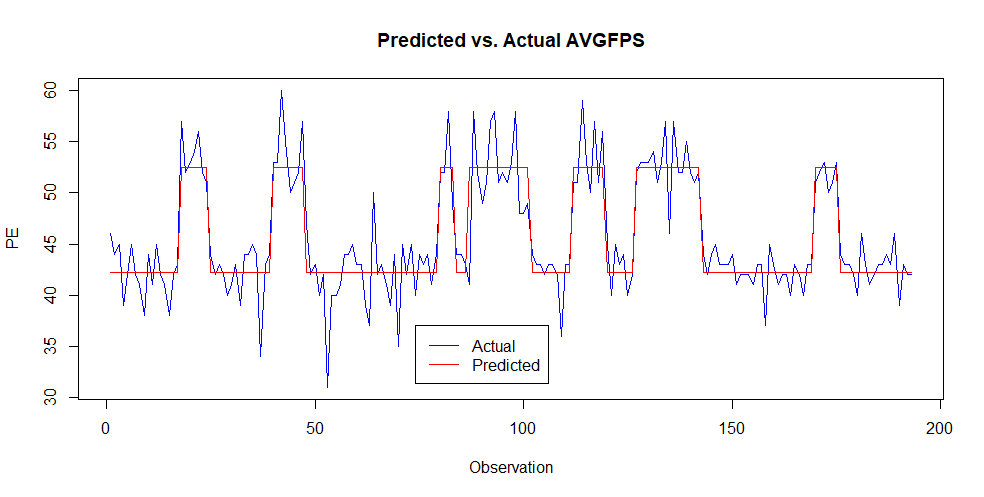
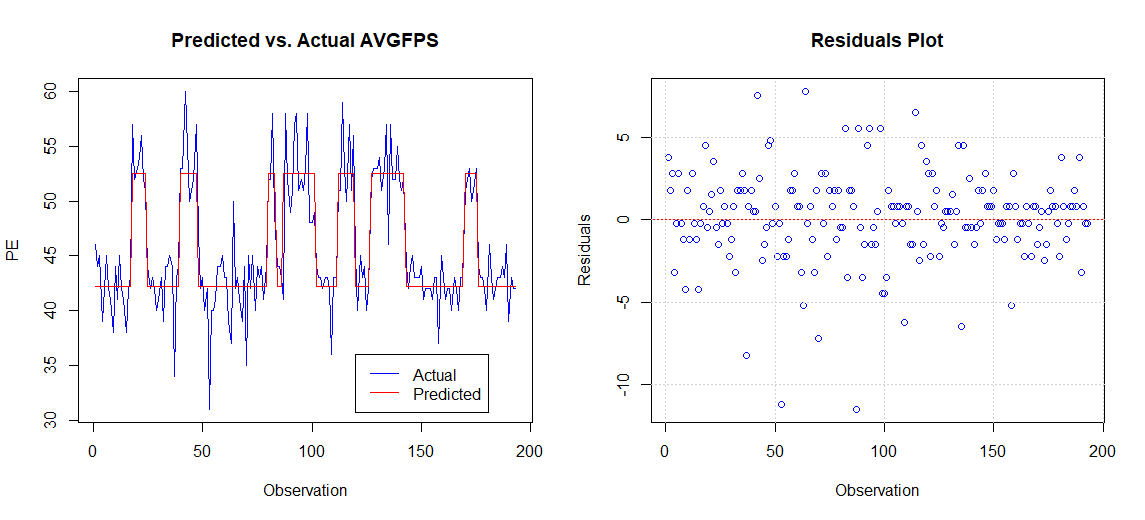
q1 donee

diff --git a/README.html b/README.html
@@ -524,9 +524,10 @@ truly reflect on the variability in all the rating variables
 <p>In order to address the research questions, I developed models
 tailored to each question. Provided below are the evaluation of these
 models along with the model descriptions.</p>
-<p><strong>Q1. Which of the technical variables
+<div id="q1.-which-of-the-technical-variables-aaagap-have-the-most-influence-on-avgfps" class="section level4">
+<h4><strong>Q1. Which of the technical variables
 (<code>AA</code>/<code>AG</code>/<code>AP</code>) have the most
-influence on <code>AVGFPS</code>?</strong></p>
+influence on <code>AVGFPS</code>?</strong></h4>
 <div class="float">
[1 lines of base64/hex data omitted]
 <div class="figcaption"><strong>Figure 1</strong> Predictive Model for
@@ -556,15 +557,53 @@ influence on <code>AVGFPS</code>?</strong></p>
 </tbody>
 </table>
 <p><strong>Table 1</strong> Model Assessment</p>
+<p>Before proceeding with utilizing the model to address the research
+question, I conducted a thorough assessment of its performance using
+three distinct methods, outlined below:</p>
+<p><em>Root Mean Squared Error</em> (RMSE): RMSE measures the average
+magnitude of the errors between predicted and actual values. In this
+case, the RMSE is <span class="math inline">\(2.769354\)</span>,
+indicating that, on average, the model’s predictions deviate from the
+actual values by approximately <span class="math inline">\(2.77\)</span>
+units.</p>
+<p><em>R-squared</em> (Coefficient of Determination): R-squared
+quantifies the proportion of the variance in the target variable that is
+explained by the model. A value of <span class="math inline">\(0.758044\)</span> indicates that approximately
+<span class="math inline">\(75.8%\)</span> of the variance in the target
+variable is explained by the model, suggesting a reasonably good
+fit.</p>
+<p><em>Cross-validated RMSE</em>: Cross-validation is a technique used
+to assess the model’s performance on unseen data by splitting the
+dataset into multiple subsets. The reported cross-validated RMSE values
+are <span class="math inline">\(1.777068\)</span>, <span class="math inline">\(1.763340\)</span>, and <span class="math inline">\(2.257344\)</span>, which represent the RMSE
+calculated on different subsets of the data. This provides insights into
+the model’s stability and generalization performance across different
+data partitions.</p>
+<p>In short, the model demonstrates moderate predictive performance,
+underscored by the R-squared value. Furthermore, the consistency
+observed in the cross-validated RMSE values across different data
+subsets enhances confidence in the model’s generalization
+capability.</p>
 <div class="float">
[1 lines of base64/hex data omitted]
-<div class="figcaption"><strong>Figure 2</strong> Predicted vs Actual
-Plot</div>
[1 lines of base64/hex data omitted]
+<div class="figcaption"><strong>Figure 2</strong> Further Model
+Assessment</div>
 </div>
-<div class="float">
[1 lines of base64/hex data omitted]
-<div class="figcaption"><strong>Figure 3</strong> Residual Plot</div>
-</div>
+<p>To further validate the robustness of the model, a visual examination
+of the Predicted vs Actual AVGFPS Plot was conducted. This plot shows
+the model’s predicted average frames per second (AVGFPS) values against
+the actual AVGFPS values from the dataset. Its capacity to accurately
+predict AVGFPS values, as demonstrated by the close alignment between
+predicted and actual values, instills confidence in its reliability and
+robustness.</p>
+<p>The Residual Plot analysis reinforces the notion that the model is a
+good fit for the dataset. The random distribution of residuals, with the
+majority clustering around y = 0, underscores the model’s accuracy in
+predicting AVGFPS values. While a few outliers exist, their limited
+presence does not detract significantly from the model’s overall
+performance. As such, the Residual Plot provides further evidence of the
+model’s suitability for addressing the research question with
+confidence.</p>
 <table>
 <thead>
 <tr class="header">
@@ -593,28 +632,30 @@ Plot</div>
 </table>
 <p><strong>Table 2</strong> Outcome</p>
 <p><strong>Conclusion:</strong></p>
-<p>Graphics <code>AG</code>: <span class="math inline">\(0.6931757927\)</span></p>
-<p>This VarImp value indicates that Graphics has the highest importance
-among the three feature variables in predicting FPS. A VarImp value
-close to 1 suggests that changes in the Graphics feature have a
-significant impact on FPS predictions. Therefore, Graphics is considered
-the most influential variable in Model 1 for predicting FPS.</p>
-<p>Physics <code>AP</code>: <span class="math inline">\(0.0012707157\)</span></p>
-<p>The VarImp value for Physics is much lower compared to Graphics,
-indicating that Physics has much less influence on FPS predictions. A
-VarImp value close to 0 suggests that changes in the Physics feature
-have minimal impact on FPS predictions in comparison to Graphics.</p>
-<p>Audio <code>AA</code>: <span class="math inline">\(0.0005060404\)</span></p>
-<p>Similarly, the VarImp value for Audio is also quite low compared to
-Graphics. This suggests that Audio has less influence on FPS predictions
-compared to Graphics and even less than Physics.</p>
+<p>Graphics <code>AG</code>: <span class="math inline">\(0.6931757927\)</span>. This VarImp value indicates
+that Graphics has the highest importance among the three feature
+variables in predicting FPS. A VarImp value close to 1 suggests that
+changes in the Graphics feature have a significant impact on FPS
+predictions. Therefore, Graphics is considered the most influential
+variable in Model 1 for predicting FPS.</p>
+<p>Physics <code>AP</code>: <span class="math inline">\(0.0012707157\)</span>. The VarImp value for
+Physics is much lower compared to Graphics, indicating that Physics has
+much less influence on FPS predictions. A VarImp value close to 0
+suggests that changes in the Physics feature have minimal impact on FPS
+predictions in comparison to Graphics.</p>
+<p>Audio <code>AA</code>: <span class="math inline">\(0.0005060404\)</span>. Similarly, the VarImp value
+for Audio is also quite low compared to Graphics. This suggests that
+Audio has less influence on FPS predictions compared to Graphics and
+even less than Physics.</p>
 <p>Based on these VarImp values, we can conclude that Graphics
 (<code>AG</code>) is the most influential variable on
 <code>AVGFPS</code>, followed by Physics (<code>AP</code>) and then
 Audio (<code>AA</code>).</p>
-<p><strong>Q2. Which of the technical variables
+</div>
+<div id="q2.-which-of-the-technical-variables-aaagap-have-the-most-influence-on-pe" class="section level4">
+<h4><strong>Q2. Which of the technical variables
 (<code>AA</code>/<code>AG</code>/<code>AP</code>) have the most
-influence on <code>PE</code>?</strong></p>
+influence on <code>PE</code>?</strong></h4>
 <p>Model:</p>
 <div class="float">
 <img src="dectree21.png" alt="Figure 4 Predictive Model for PE" />
@@ -644,6 +685,11 @@ influence on <code>PE</code>?</strong></p>
 </tr>
 </tbody>
 </table>
+</div>
+<div id="q3.-what-is-the-optimal-combination-of-the-technical-variables-aaagap-to-achieve-optimal-navgfpspe" class="section level4">
+<h4><strong>Q3. What is the optimal combination of the technical
+variables (<code>AA</code>/<code>AG</code>/<code>AP</code>) to achieve
+optimal <code>NAVGFPSPE</code>?</strong></h4>
 <table>
 <thead>
 <tr class="header">
@@ -667,6 +713,7 @@ influence on <code>PE</code>?</strong></p>
 </tr>
 </tbody>
 </table>
+</div>
 </div>
 </div>
 

diff --git a/README.md b/README.md
@@ -42,7 +42,7 @@ Normalized data of $0.5AVGFPS+0.5PE$ | `NAVGFPSPE` | Continuous (Decimal) | $[0,
 In order to address the research questions, I developed models tailored to each question. 
 Provided below are the evaluation of these models along with the model descriptions.
 
-**Q1. Which of the technical variables (`AA`/`AG`/`AP`) have the most influence on `AVGFPS`?**
+#### **Q1. Which of the technical variables (`AA`/`AG`/`AP`) have the most influence on `AVGFPS`?**
 
 ![**Figure 1** Predictive Model for `AVGFPS`](dectree11.png)
 
@@ -54,9 +54,22 @@ Provided below are the evaluation of these models along with the model descripti
 
 **Table 1** Model Assessment
 
-![**Figure 2** Predicted vs Actual Plot](dectree12.png)
+Before proceeding with utilizing the model to address the research question, I conducted a thorough assessment of its performance using three distinct methods, outlined below:
 
-![**Figure 3** Residual Plot](dectree13.png)
+*Root Mean Squared Error* (RMSE): RMSE measures the average magnitude of the errors between predicted and actual values. In this case, the RMSE is $2.769354$, indicating that, on average, the model's predictions deviate from the actual values by approximately $2.77$ units.
+
+*R-squared* (Coefficient of Determination): R-squared quantifies the proportion of the variance in the target variable that is explained by the model. A value of $0.758044$ indicates that approximately $75.8%$ of the variance in the target variable is explained by the model, suggesting a reasonably good fit.
+
+*Cross-validated RMSE*: Cross-validation is a technique used to assess the model's performance on unseen data by splitting the dataset into multiple subsets. The reported cross-validated RMSE values are $1.777068$, $1.763340$, and $2.257344$, which represent the RMSE calculated on different subsets of the data. This provides insights into the model's stability and generalization performance across different data partitions.
+
+In short, the model demonstrates moderate predictive performance, underscored by the R-squared value. Furthermore, the consistency observed in the cross-validated RMSE values across different data subsets enhances confidence in the model's generalization capability.
+
+![**Figure 2** Further Model Assessment](dectree12.png)
+
+To further validate the robustness of the model, a visual examination of the Predicted vs Actual AVGFPS Plot was conducted. This plot shows the model's predicted average frames per second (AVGFPS) values against the actual AVGFPS values from the dataset. Its capacity to accurately predict AVGFPS values, as demonstrated by the close alignment between predicted and actual values, instills confidence in its reliability and robustness.
+
+The Residual Plot analysis reinforces the notion that the model is a good fit for the dataset. The random distribution of residuals, with the majority clustering around y = 0, underscores the model's accuracy in predicting AVGFPS values. While a few outliers exist, their limited presence does not detract significantly from the model's overall performance. As such, the Residual Plot provides further evidence of the model's suitability for addressing the research question with confidence.
+
 
 | Variable | Importance | % |
 | :---: | :---: | :---: |
@@ -68,21 +81,15 @@ Provided below are the evaluation of these models along with the model descripti
 
 **Conclusion:** 
 
-Graphics `AG`: $0.6931757927$
+Graphics `AG`: $0.6931757927$. This VarImp value indicates that Graphics has the highest importance among the three feature variables in predicting FPS. A VarImp value close to 1 suggests that changes in the Graphics feature have a significant impact on FPS predictions. Therefore, Graphics is considered the most influential variable in Model 1 for predicting FPS.
 
-This VarImp value indicates that Graphics has the highest importance among the three feature variables in predicting FPS. A VarImp value close to 1 suggests that changes in the Graphics feature have a significant impact on FPS predictions. Therefore, Graphics is considered the most influential variable in Model 1 for predicting FPS.
+Physics `AP`: $0.0012707157$. The VarImp value for Physics is much lower compared to Graphics, indicating that Physics has much less influence on FPS predictions. A VarImp value close to 0 suggests that changes in the Physics feature have minimal impact on FPS predictions in comparison to Graphics.
 
-Physics `AP`: $0.0012707157$
-
-The VarImp value for Physics is much lower compared to Graphics, indicating that Physics has much less influence on FPS predictions. A VarImp value close to 0 suggests that changes in the Physics feature have minimal impact on FPS predictions in comparison to Graphics.
-
-Audio `AA`: $0.0005060404$
-
-Similarly, the VarImp value for Audio is also quite low compared to Graphics. This suggests that Audio has less influence on FPS predictions compared to Graphics and even less than Physics. 
+Audio `AA`: $0.0005060404$. Similarly, the VarImp value for Audio is also quite low compared to Graphics. This suggests that Audio has less influence on FPS predictions compared to Graphics and even less than Physics. 
 
 Based on these VarImp values, we can conclude that Graphics (`AG`) is the most influential variable on `AVGFPS`, followed by Physics (`AP`) and then Audio (`AA`).
 
-**Q2. Which of the technical variables (`AA`/`AG`/`AP`) have the most influence on `PE`?**
+#### **Q2. Which of the technical variables (`AA`/`AG`/`AP`) have the most influence on `PE`?**
 
 Model: 
 
@@ -93,6 +100,10 @@ Model:
 | RMSE | $0.9346277$ |
 | R-squared | $-0.06896572$ | 
 | Cross-validated RMSE | $0.9475976, 0.9475561, 0.9492149$ |
+
+
+#### **Q3. What is the optimal combination of the technical variables (`AA`/`AG`/`AP`) to achieve optimal `NAVGFPSPE`?**
+
 
 |Method | Value |
 | :---: | :---: |
